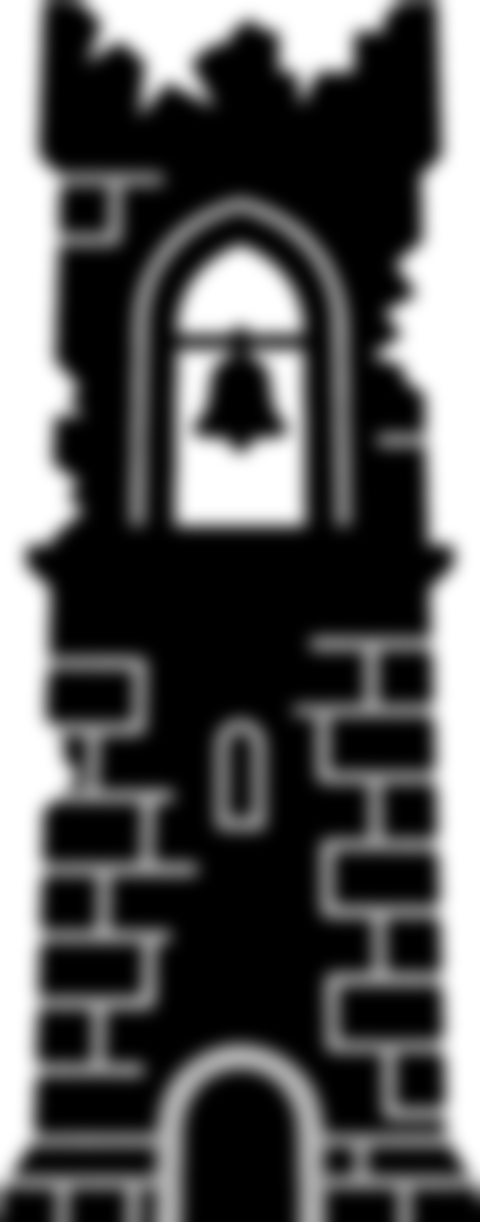
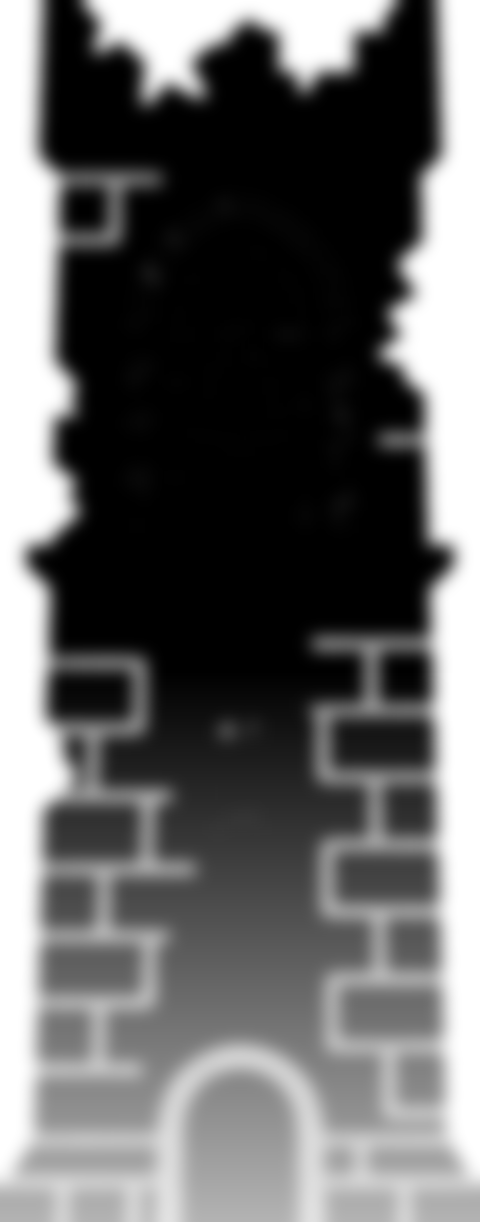
Put the scenery in the fog: solid silhouettes, depth-blurred art, drifting mist, shadowed pits
Props are baked as solid shapes now — cracks are closed morphologically
and the tower's mortar lines and windows are filled — because a thing seen
against fog shows no interior; brick joints with fog shining through made
the tower look pasted on. Each prop has three grades: crisp, `_soft`
(blurred, base fading) and `_far` (heavily blurred, lower half dissolved),
chosen by depth. The backdrop draws a band of mist along the ground and
seven slow pale wisps at a middle depth *in front of* the scenery, so
distant things are genuinely seen through fog. Pits are filled with a
shadow from lip to spikes instead of showing bright fog down to a black
block.

diff --git a/lib/render/atmosphere_backdrop.dart b/lib/render/atmosphere_backdrop.dart
@@ -1,4 +1,5 @@
 import 'dart:math' as math;
+import 'dart:typed_data';
 import 'dart:ui';
 
 import 'package:flame/components.dart';
@@ -24,8 +25,12 @@ import '../config/palette.dart';
 ///     darkening gently towards the top and the bottom;
 ///  2. the placed scenery from [GameConfig.scenery], each prop scrolling and
 ///     fading by its own depth, so things arrive one at a time as the player
-///     walks;
-///  3. a couple of faint shafts of light.
+///     walks — deep ones drawn from blurred art whose base has already
+///     dissolved into mist;
+///  3. the fog *itself*: a band of mist lying along the ground and a few
+///     large, slow wisps drifting across, drawn in front of the scenery so
+///     that things really are seen through it;
+///  4. a couple of faint shafts of light.
 class AtmosphereBackdrop extends Component {
   AtmosphereBackdrop({required this.camera});
 
@@ -44,14 +49,16 @@ class AtmosphereBackdrop extends Component {
 
     _props = [
       for (final prop in GameConfig.scenery)
-        _PlacedProp(
-          prop,
-          images.fromCache(
-            'props/${prop.image}${prop.depth > 0.4 ? '_soft' : ''}.png',
-          ),
-        ),
+        _PlacedProp(prop, images.fromCache('props/${prop.imageFile}')),
     ];
+
+    final random = math.Random(11);
+    for (var i = 0; i < 7; i++) {
+      _wisps.add(_Wisp.random(random, i));
+    }
   }
+
+  final List<_Wisp> _wisps = [];
 
   @override
   void update(double dt) {
@@ -72,11 +79,48 @@ class AtmosphereBackdrop extends Component {
     final Vector2 cameraWorld = camera.viewfinder.position;
 
     _renderFog(canvas, viewport);
-    _renderLightShafts(canvas, viewport);
 
     // Far props first, so a near one can stand in front of a far one.
     for (final placed in _props) {
       placed.render(canvas, viewport, cameraWorld, pixelsPerMetre);
+    }
+
+    _renderMist(canvas, viewport, cameraWorld, pixelsPerMetre);
+    _renderLightShafts(canvas, viewport);
+  }
+
+  /// The fog that things are seen *through*: a band of mist along the
+  /// ground, thickest just above the surface and thinning upward, and a
+  /// handful of big soft wisps that drift slowly across and scroll at a
+  /// middle depth. Both are pale, not dark: fog is lit, and it hides a shape
+  /// by washing it out towards the light, never by darkening it.
+  void _renderMist(
+    Canvas canvas,
+    Vector2 viewport,
+    Vector2 cameraWorld,
+    double pixelsPerMetre,
+  ) {
+    // The ground line on screen, from the camera's resting offset above the
+    // player. Mist sits on it.
+    final double groundY =
+        viewport.y / 2 +
+        (GameConfig.cameraLookUp + GameConfig.playerHeight / 2) *
+            pixelsPerMetre;
+    final double bandTop = groundY - viewport.y * 0.38;
+    _fogPaint.shader = Gradient.linear(
+      Offset(0, bandTop),
+      Offset(0, groundY + viewport.y * 0.04),
+      [
+        Palette.fogGlow.withValues(alpha: 0),
+        Palette.fogGlow.withValues(alpha: 0.26),
+        Palette.fogGlow.withValues(alpha: 0.48),
+      ],
+      const [0.0, 0.7, 1.0],
+    );
+    canvas.drawRect(Rect.fromLTWH(0, 0, viewport.x, viewport.y), _fogPaint);
+
+    for (final wisp in _wisps) {
+      wisp.render(canvas, viewport, cameraWorld, pixelsPerMetre, _time);
     }
   }
 
@@ -221,6 +265,102 @@ class _PlacedProp {
       image,
       Rect.fromLTWH(0, 0, image.width.toDouble(), image.height.toDouble()),
       Rect.fromLTWH(left, top, w, h),
+      _paint,
+    );
+  }
+}
+
+/// One drifting patch of fog: a large, very soft, pale ellipse.
+///
+/// Wisps live in world space at a middle depth, so they scroll against the
+/// scenery like something between it and the camera, and they drift on their
+/// own so the fog is never still. They repeat every [_span] metres, which is
+/// why a level of any length has fog all the way along it.
+class _Wisp {
+  _Wisp({
+    required this.x,
+    required this.y,
+    required this.width,
+    required this.height,
+    required this.alpha,
+    required this.drift,
+    required this.depth,
+    required this.phase,
+  });
+
+  factory _Wisp.random(math.Random r, int index) {
+    return _Wisp(
+      // Spread evenly along the span, then jittered.
+      x: index * (_span / 7) + r.nextDouble() * 6,
+      // In metres above the ground line: the fog lies low.
+      y: 0.4 + r.nextDouble() * 2.6,
+      width: 9 + r.nextDouble() * 9,
+      height: 2.2 + r.nextDouble() * 2.4,
+      alpha: 0.16 + r.nextDouble() * 0.16,
+      drift: 0.12 + r.nextDouble() * 0.16,
+      depth: 0.25 + r.nextDouble() * 0.35,
+      phase: r.nextDouble() * math.pi * 2,
+    );
+  }
+
+  static const double _span = 48.0;
+
+  final double x, y, width, height, alpha, drift, depth, phase;
+  final Paint _paint = Paint();
+
+  void render(
+    Canvas canvas,
+    Vector2 viewport,
+    Vector2 cameraWorld,
+    double pixelsPerMetre,
+    double time,
+  ) {
+    final double speed = 1 - 0.85 * depth;
+    final double groundY =
+        viewport.y / 2 +
+        (GameConfig.cameraLookUp + GameConfig.playerHeight / 2) *
+            pixelsPerMetre;
+    final double breathe = 1 + 0.08 * math.sin(time * 0.21 + phase);
+    final double w = width * pixelsPerMetre * breathe;
+    final double h = height * pixelsPerMetre;
+    final double cy =
+        groundY -
+        y * pixelsPerMetre +
+        math.sin(time * 0.17 + phase) * 0.3 * pixelsPerMetre;
+
+    // World x, drifting, wrapped into the repeating span and then placed
+    // relative to the camera like any other parallax prop.
+    final double worldX = (x + time * drift) % _span;
+    final double camWrapped = cameraWorld.x % _span;
+    // Nearest repeat of this wisp to the camera.
+    double dx = worldX - camWrapped;
+    if (dx > _span / 2) dx -= _span;
+    if (dx < -_span / 2) dx += _span;
+    final double cx = viewport.x / 2 + dx * speed * pixelsPerMetre;
+
+    if (cx + w < 0 || cx - w > viewport.x) return;
+
+    _paint.shader = Gradient.radial(
+      Offset(cx, cy),
+      w / 2,
+      [
+        Palette.fogGlow.withValues(alpha: alpha),
+        Palette.fogGlow.withValues(alpha: alpha * 0.55),
+        Palette.fogGlow.withValues(alpha: 0),
+      ],
+      const [0.0, 0.5, 1.0],
+      TileMode.clamp,
+      // Squash the circle into a low, wide ellipse.
+      Float64List.fromList(
+        (Matrix4.identity()
+              ..translateByDouble(cx, cy, 0, 1)
+              ..scaleByDouble(1, h / w, 1, 1)
+              ..translateByDouble(-cx, -cy, 0, 1))
+            .storage,
+      ),
+    );
+    canvas.drawRect(
+      Rect.fromCenter(center: Offset(cx, cy), width: w, height: h),
       _paint,
     );
   }

diff --git a/lib/entities/hazard.dart b/lib/entities/hazard.dart
@@ -3,6 +3,7 @@ import 'dart:ui';
 
 import 'package:flame_forge2d/flame_forge2d.dart';
 
+import '../config/game_config.dart';
 import '../config/palette.dart';
 import '../world/checkpoint_service.dart';
 import 'player.dart';
@@ -73,8 +74,24 @@ class Hazard extends BodyComponent with ContactCallbacks {
     return path;
   }
 
+  final Paint _shadowPaint = Paint();
+
   @override
   void render(Canvas canvas) {
+    // The drop above the spikes: fog at the lip, black by the time it
+    // reaches them. Without this a pit shows bright fog all the way down to
+    // a hard black block at the bottom, which reads as a slab floating in
+    // mid-air rather than as a hole in the ground.
+    final double hw = _size.x / 2;
+    final double hh = _size.y / 2;
+    final double lip = -hh - GameConfig.pitDepth;
+    _shadowPaint.shader = Gradient.linear(
+      Offset(0, lip),
+      Offset(0, -hh + 0.2),
+      const [Color(0x59000000), Color(0xD9000000), Color(0xFF000000)],
+      const [0.0, 0.4, 1.0],
+    );
+    canvas.drawRect(Rect.fromLTRB(-hw, lip, hw, -hh + 0.3), _shadowPaint);
     canvas.drawPath(_spikes, paint);
   }
 

diff --git a/lib/game/umbra_game.dart b/lib/game/umbra_game.dart
@@ -138,18 +138,13 @@ class UmbraGame extends Forge2DGame with HasKeyboardHandlerComponents {
 
   bool _artLoaded = false;
 
-  static const List<String> _art = [
+  /// Everything the renderers pull from the image cache. The scenery's
+  /// files are derived from [GameConfig.scenery] so adding a prop there is
+  /// enough.
+  static final List<String> _art = [
     'grain.png',
     'props/grass_tall.png',
-    'props/prop_tree_a.png',
-    'props/prop_tree_a_soft.png',
-    'props/prop_tree_b.png',
-    'props/prop_tree_b_soft.png',
-    'props/prop_ladder.png',
-    'props/prop_gallows.png',
-    'props/prop_tower_soft.png',
-    'props/prop_watchtower_soft.png',
-    'props/prop_fence.png',
+    ...{for (final prop in GameConfig.scenery) 'props/${prop.imageFile}'},
   ];
 
   Future<void> _loadArt() async {

diff --git a/lib/config/game_config.dart b/lib/config/game_config.dart
@@ -344,4 +344,13 @@ class SceneryProp {
 
   /// Hang from [y] instead of standing on it, for ladders and ropes.
   final bool hangs;
+
+  /// The art to draw, chosen by depth: crisp up close, `_soft` further in,
+  /// `_far` deep in the fog where the base has dissolved entirely. All three
+  /// are baked by `tools/bake_props.py`.
+  String get imageFile {
+    if (depth > 0.62) return '${image}_far.png';
+    if (depth > 0.32) return '${image}_soft.png';
+    return '$image.png';
+  }
 }

diff --git a/tools/bake_props.py b/tools/bake_props.py
@@ -4,19 +4,31 @@
 Props are single silhouettes placed at specific world positions by the game
 (see GameConfig.scenery), so each is trimmed to its own bounding box and the
 bottom of the image is the bottom of the silhouette. Every output is black
-with the shape in the alpha channel; each prop also gets a `_soft` variant,
-blurred for use in the far distance.
+with the shape in the alpha channel.
+
+A silhouette is *solid*: any transparent pocket enclosed by the shape (the
+mortar lines the model drew between bricks, a window) is filled, because a
+thing seen against fog shows no interior at all — a brick pattern with fog
+shining through every joint is what makes a prop look pasted on.
+
+Each prop also gets two fogged variants for use at depth: `_soft` (lightly
+blurred, base fading into mist) and `_far` (heavily blurred, most of the
+lower half dissolved). Fog is thickest near the ground, so the further away
+a thing is the less of its base survives.
 
 usage: bake_props.py <raw_dir> <out_dir>
 """
 import sys, pathlib
-from PIL import Image, ImageFilter
+from PIL import Image, ImageDraw, ImageFilter
 import numpy as np
 
 RAW = pathlib.Path(sys.argv[1]); OUT = pathlib.Path(sys.argv[2]); OUT.mkdir(parents=True, exist_ok=True)
 
 # name: (source, crop (l, t, r, b) fractions to KEEP, key (lo, hi) luminance,
 #        max_height px, trim, tile)
+# FILL names the props whose enclosed transparent pockets are solid interior
+# (a stone tower's mortar lines and windows). Not for open structures: the
+# gaps between a fence's rails or a ladder's rungs are real.
 # Luminance <= lo is fully opaque, >= hi fully transparent, linear between.
 # A tight (lo, hi) band such as (90, 190) throws away light gradient
 # backgrounds and soft shadows and keeps only the black silhouette.
@@ -33,9 +45,47 @@ SPECS = {
     "grass_tall":     ("grass_tall",     (0.00, 0.30, 1.00, 0.900), (90, 190),  420, False, True),
 }
 
+FILL = {"prop_tower"}
+
 def key(gray, lo, hi):
     a = (hi - gray.astype(np.float32)) * (255.0 / (hi - lo))
     return np.clip(a, 0, 255)
+
+def close_gaps(alpha, size=9):
+    """Morphological closing: seal transparent cracks narrower than `size`
+    px (mortar lines, hairline gaps) while leaving thin solid features such
+    as twigs untouched. Dilate, then erode."""
+    im = Image.fromarray(alpha.astype(np.uint8), "L").copy()
+    im = im.filter(ImageFilter.MaxFilter(size)).filter(ImageFilter.MinFilter(size))
+    return np.asarray(im).astype(np.float32)
+
+def fill_holes(alpha):
+    """Make every transparent region that does not touch the border opaque."""
+    solid = alpha > 100
+    h, w = solid.shape
+    # Pad with a transparent frame so one flood fill from the corner reaches
+    # every outside region; whatever it does not reach is an enclosed hole.
+    pad = np.full((h + 2, w + 2), 255, dtype=np.uint8)
+    pad[1:-1, 1:-1] = np.where(solid, 0, 255)
+    # `.copy()`: an image backed by a numpy array is read-only to floodfill.
+    im = Image.fromarray(pad, "L").copy()
+    ImageDraw.floodfill(im, (0, 0), 128)
+    outside = np.asarray(im)[1:-1, 1:-1] == 128
+    holes = ~solid & ~outside
+    out = alpha.copy()
+    out[holes] = 255
+    return out
+
+def fade_base(im, start, floor):
+    """Multiply alpha by a ramp from 1 at `start` (fraction of height) down
+    to `floor` at the bottom edge."""
+    a = np.asarray(im).astype(np.float32)
+    h = a.shape[0]
+    y0 = int(start * h)
+    ramp = np.ones(h, dtype=np.float32)
+    ramp[y0:] = np.linspace(1.0, floor, h - y0)
+    a[..., 3] *= ramp[:, None]
+    return Image.fromarray(a.astype(np.uint8), "RGBA")
 
 def to_rgba(alpha):
     rgba = np.zeros((*alpha.shape, 4), dtype=np.uint8)
@@ -53,6 +103,9 @@ for name, (src, (l, t, r, b), (lo, hi), max_h, trim, tile) in SPECS.items():
         # silhouette's base. Ignore specks: rows/cols need real coverage.
         rows = np.where(a.max(axis=1) > 40)[0]; cols = np.where(a.max(axis=0) > 40)[0]
         a = a[rows[0]:rows[-1] + 1, cols[0]:cols[-1] + 1]
+        a = close_gaps(a)
+        if name in FILL:
+            a = fill_holes(a)
 
     if tile:
         # Mirror so the strip repeats without a seam.
@@ -65,7 +118,9 @@ for name, (src, (l, t, r, b), (lo, hi), max_h, trim, tile) in SPECS.items():
 
     line = f"{name:16s} {out.width}x{out.height}"
     if trim:
-        soft = out.filter(ImageFilter.GaussianBlur(max(3, out.height // 150)))
-        soft.save(OUT / f"{name}_soft.png", optimize=True)
-        line += "  (+soft)"
+        soft = out.filter(ImageFilter.GaussianBlur(max(3, out.height // 140)))
+        fade_base(soft, 0.55, 0.30).save(OUT / f"{name}_soft.png", optimize=True)
+        far = out.filter(ImageFilter.GaussianBlur(max(6, out.height // 55)))
+        fade_base(far, 0.40, 0.10).save(OUT / f"{name}_far.png", optimize=True)
+        line += "  (+soft +far)"
     print(line)
